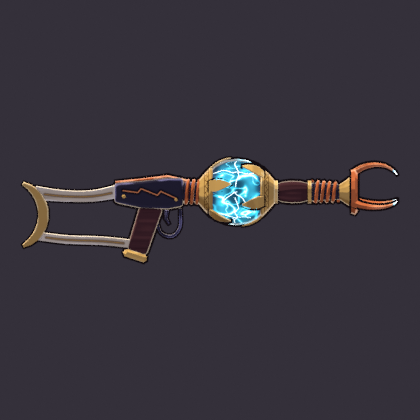
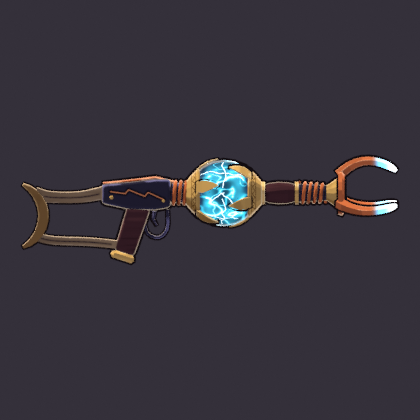
Fix the Thundercoil Launcher's stock value and muzzle read at 1x
The art review (7/10) found two must-fix items at game size.

The pale bone open-frame stock was the largest light shape and pulled
the eye to the back of the weapon. The bone is now smoked bone, one
value step darker (#D2C3A5 -> #9A7F5C), with a less pale edge
highlight. A painted gradient darkens it further toward the butt. The
crescent butt moves from bright brass to a new dark bronze zone, and
the brass pinstripes become dark scrimshaw lines. The stock is 4 cm
shorter. At 1x the pale streak behind the orb is gone, and the orb and
muzzle lead the read.

The three-prong muzzle was 1-2 px at 1x. The prongs are now longer
(tip at 0.80 m), about 60 % thicker and splayed wider, so the muzzle is
0.23 m across instead of 0.17 m. They end in blunt electrode tips
instead of needles, and the glow covers the front half of each prong
instead of the last 2 cm. At 1x the fork reads as a claw with three
white-hot points.

The triangle count is unchanged at 3,856 and the length stays at
1.15 m. The model is re-exported and passes validation, in Blender and
standalone. The review renders are redone, with a before/after sheet in
reports/. README and WEAPONS.md are updated. The status stays
ai_final_pending_user_approval.

Changed region(s): [[0.031, 0.3714, 0.9595, 0.65]]

diff --git a/art/weapons/thundercoil_launcher/source/thundercoil_launcher_build.py b/art/weapons/thundercoil_launcher/source/thundercoil_launcher_build.py
@@ -14,15 +14,20 @@ Design (docs/art/WEAPONS.md section 5: family HEAVY/SPLASH, secondary tag storm 
   * the brief asks for SLENDER and ELEGANT, so the LUMP verb is carried by ONE mass only: a storm-glass
     orb (0.20 m across; with its cups 0.25 m, a fifth of the length) sitting in the breech between the
     hands, set in two small brass cups whose rims open into five calyx leaves each. Everything else is
-    thin: a bone swan-neck skeleton stock with a brass crescent butt (Selene = the moon), a slim
-    dark-iron receiver with a copper lightning inlay, a copper coil pack on the neck, a wooden forestock
-    sleeve, a tapering copper induction coil, and a round emitter muzzle (a copper halo ring + three
-    forward-swept conductor tines): the wide round muzzle of the splash family, forked like a conductor;
-  * value rhythm (checked at 1x in the 55 deg camera): pale bone stock -> dark iron receiver / dark wood
-    grip -> the glowing orb in bright brass -> dark sleeve -> copper coil -> copper halo, white-hot tine
-    tips and a glowing bore where the orbs leave;
+    thin: a smoked-bone swan-neck skeleton stock with a dark bronze crescent butt (Selene = the moon), a
+    slim dark-iron receiver with a copper lightning inlay, a copper coil pack on the neck, a wooden
+    forestock sleeve, a tapering copper induction coil, and a round emitter muzzle (a copper halo ring +
+    three thick forward-swept conductor prongs with blunt glowing electrode tips): the wide round muzzle
+    of the splash family, forked like a conductor;
+  * value rhythm (checked at 1x in the 55 deg camera): mid smoked-bone stock falling off to a dark bronze
+    butt -> dark iron receiver / dark wood grip -> the glowing orb in bright brass (the lead) -> dark
+    sleeve -> copper coil -> copper halo, white-hot prong tips and a glowing bore where the orbs leave;
   * Storm #3FD8FF lives in the EMISSIVE only: the orb's plasma wisps and crackle veins, the bore, the
-    tine tips (about 16 % of the surface). Base colour under glows is pale steel-white, never cyan;
+    front half of each prong (about 18 % of the surface). Base colour under glows is pale steel-white,
+    never cyan;
+  * rev 2 (art review 7/10): the pale bone stock was the largest light shape and pulled the eye to the
+    back at 1x -> darkened one value step with a fall-off toward the butt, bronze crescent, 4 cm shorter;
+    the needle tines were 1-2 px at 1x -> longer, ~60 % thicker, wider, blunt glowing tips (same tris);
   * palette: the warm metals of the player's arsenal (copper, bone-brass, dark iron, dark wood, bone) +
     a dark slate storm-glass.
 
@@ -63,14 +68,21 @@ SLEEVE = (0.392, 0.490)           # wooden forestock sleeve (left hand)
 COIL = (0.502, 0.582)             # barrel induction coil (tapering)
 HALO_Y, HALO_R = 0.630, 0.060     # copper halo ring at the muzzle
 MUZZLE_Y = 0.634                  # bore exit (the muzzle socket)
-TINE_TIP_Y = 0.762
+TINE_TIP_Y = 0.800                # rev 2: 0.762 -> 0.800, the prongs are longer, thicker and splay wider
+TINE_GLOW_Y = 0.712               # the tines glow from here to the tip (rev 2: was the last ~2 cm only)
+STOCK_CC_Y = -0.388               # crescent-butt arc centre (rev 2: -0.426 -> -0.388, a shorter stock)
 GRIP_L = (0.0, 0.441, AX - 0.048)  # palm centre of the left hand under the sleeve
 CORE = (0.0, CH_Y, AX)            # the orb's plasma core (glow_core)
 
-ZONES = ["iron", "brass", "copper", "coil", "tine", "wood", "bone", "glass", "glow_bore"]
+ZONES = ["iron", "brass", "bronze", "copper", "coil", "tine", "wood", "bone", "glass", "glow_bore"]
+# rev 2 (art review): the bone stock was the largest light shape and pulled the eye to the back at 1x.
+# It is now smoked bone one value step darker (#D2C3A5 -> #9A7F5C) that also falls off toward the butt,
+# and the crescent is dark bronze instead of bright brass: the orb and the muzzle lead the read.
+BONE = "#9A7F5C"
 PALETTE = [  # (name, hex) for the review sheet
-    ("bone", "#D2C3A5"), ("wood", "#45282A"), ("iron", "#2D2A38"), ("brass", "#C79E55"), ("copper", "#C0673A"),
-    ("storm glass", "#18202E"), ("glow rim", "#0E4E7E"), ("storm", "#3FD8FF"), ("core", "#F2FFFF"),
+    ("smoked bone", BONE), ("wood", "#45282A"), ("iron", "#2D2A38"), ("brass", "#C79E55"), ("bronze", "#8A6638"),
+    ("copper", "#C0673A"), ("storm glass", "#18202E"), ("glow rim", "#0E4E7E"), ("storm", "#3FD8FF"),
+    ("core", "#F2FFFF"),
 ]
 
 # glass colours (sRGB)
@@ -148,7 +160,7 @@ def petal(ang, side):
 def stock_curves():
     """Centre-lines of the upper and lower stock struts and the crescent arc (shared by the mesh and the
     pinstripe decals)."""
-    cc = Vector((0.0, -0.426, 0.030))         # crescent arc centre (y, z); the horns point back
+    cc = Vector((0.0, STOCK_CC_Y, 0.030))     # crescent arc centre (y, z); the horns point back
     cr = 0.105
 
     def arc(th):
@@ -199,7 +211,7 @@ def build_mesh(col):
     for i in range(n):
         t = abs(i / (n - 1) * 2 - 1)            # 1 at the horns, 0 in the middle
         sc.append((0.046 - 0.012 * t, 0.032 - 0.024 * t * t))
-    a.add(M.tube(cres, 1.0, profile=rect, up=(1, 0, 0), scale_xy=sc), "brass", name="crescent")
+    a.add(M.tube(cres, 1.0, profile=rect, up=(1, 0, 0), scale_xy=sc), "bronze", name="crescent")
 
     # -- trigger guard (iron strap) and trigger
     guard = M.catmull([(0, 0.022, AX - 0.062), (0, 0.036, AX - 0.122), (0, 0.072, AX - 0.136),
@@ -247,11 +259,18 @@ def build_mesh(col):
     a.add(lathe_y(bore, 16), "glow_bore", name="bore", shading="smooth")
     ring_pts = [radial(360.0 * i / 16, HALO_R, HALO_Y) for i in range(16)]
     a.add(M.tube(ring_pts, 0.0105, sides=5, closed=True, up=(0, 1, 0)), "copper", name="halo", shading="smooth")
+    # rev 2 (art review: the needle tines were 1-2 px at 1x): the prongs are longer (tip 0.762 -> 0.800),
+    # about 60 % thicker (base radius 0.0115 -> 0.0185), splay wider (0.083 -> 0.097 from the axis, the
+    # muzzle is now 0.23 m across) and end in a blunt electrode tip (radius 0.006) instead of a needle,
+    # so each glowing tip is a dot at game size. Same ring count, so the same triangle count.
+    radii = [0.0185, 0.0172, 0.0160, 0.0150, 0.0142, 0.0136, 0.0132, 0.0130, 0.0126, 0.0108, 0.0060]
     for ang in (90.0, 210.0, 330.0):
-        ctrl = [radial(ang, r, y) for r, y in ((HALO_R - 0.004, HALO_Y - 0.004), (0.074, HALO_Y + 0.024),
-                                                (0.083, HALO_Y + 0.059), (0.080, HALO_Y + 0.094),
-                                                (0.066, HALO_Y + 0.120), (0.052, TINE_TIP_Y))]
-        a.add(M.horn(M.catmull(ctrl, 2), 0.0115, 0.0012, sides=5), "tine", name="tine", shading="smooth")
+        ctrl = [radial(ang, r, y) for r, y in ((HALO_R - 0.006, HALO_Y - 0.006), (0.081, HALO_Y + 0.026),
+                                                (0.097, HALO_Y + 0.066), (0.096, HALO_Y + 0.106),
+                                                (0.084, HALO_Y + 0.142), (0.068, TINE_TIP_Y))]
+        pts = M.catmull(ctrl, 2)
+        assert len(pts) == len(radii)
+        a.add(M.tube(pts, radii, sides=5, cap=True), "tine", name="tine", shading="smooth")
 
     obj = a.to_object(col)
     C.log("mesh: %d parts, %d tris" % (len(a.parts), sum(len(p.vertices) - 2 for p in obj.data.polygons)))
@@ -270,13 +289,20 @@ RECIPES = {
                      edge_width=0.0035, cavity=0.6, ao=0.55),
     "coil": P.zone(base="#BD6536", shadow="#4E1A0E", light="#FFB885", planes=0.12, parts=0.0, edge=0.35,
                    edge_width=0.0025, cavity=0.3, ao=0.85, ao_range=(0.2, 0.55), brush=0.04),
+    # rev 2: the glow runs over the front half of each prong (was the last ~2 cm), storm blue -> Storm ->
+    # white-hot at the blunt tip, so the three tips read as bright dots at 1x
     "tine": P.zone(base="#C0673A", shadow="#5A2214", light="#FFBE8C", planes=0.1, edge=0.6, edge_width=0.003,
                    cavity=0.4, ao=0.4,
                    emit={"core": STORM_DEEP, "hot": STORM, "color": STORM_CORE, "mode": "plane",
-                         "axis": (0, 1, 0), "range": (0.735, TINE_TIP_Y), "fade": (0.3, 0.85), "base_mix": 0.75}),
-    "bone": P.zone(base="#D2C3A5", shadow="#76624E", light="#FBF3E2", planes=0.06, parts=0.04, edge=0.6,
-                   edge_width=0.0045, cavity=0.75, ao=0.6, stroke=(0, 1, 0), stroke_amount=0.28,
-                   stroke_freq=(120.0, 3.0), brush=0.06, brush_freq=9.0),
+                         "axis": (0, 1, 0), "range": (TINE_GLOW_Y, TINE_TIP_Y), "fade": (0.0, 0.3),
+                         "base_mix": 0.75}),
+    "bone": P.zone(base=BONE, shadow="#4A3826", light="#CDB690", planes=0.06, parts=0.04, edge=0.5,
+                   edge_width=0.004, cavity=0.75, ao=0.6, stroke=(0, 1, 0), stroke_amount=0.22,
+                   stroke_freq=(120.0, 3.0), brush=0.06, brush_freq=9.0,
+                   gradient={"axis": (0, 1, 0), "range": (-0.12, -0.33), "color": "shadow", "amount": 0.32}),
+    "bronze": P.zone(base="#8A6638", shadow="#3E2810", light="#D0AA68", planes=0.08, parts=0.0, edge=0.8,
+                     edge_width=0.004, cavity=0.7, ao=0.6,
+                     spots={"color": "#5A3E1E", "amount": 0.25, "freq": 16.0, "threshold": (0.62, 0.74)}),
     "wood": P.zone(base="#45282A", shadow="#1A0C0E", light="#7E4C45", planes=0.05, parts=0.04, edge=0.55,
                    edge_width=0.0045, cavity=0.7, ao=0.6, stroke=(0, 1, 0), stroke_amount=0.3,
                    stroke_freq=(80.0, 5.0)),
@@ -337,14 +363,15 @@ def decals():
         fr = Matrix(((u.x, v.x, z.x, 0), (u.y, v.y, z.y, 0.008), (u.z, v.z, z.z, AX - 0.004), (0, 0, 0, 1)))
         out.append(P.decal_lines(bolt_lines(sx), fr, 0.0055, zones=["iron"], color="#E28A52", rim="#0D0A12",
                                  rim_width=0.010, depth=(0.0, 0.06)))
-        # brass pinstripe inlaid along both bone struts (u = sx * y so the frame's +Z points out of this side)
+        # scrimshaw line inked along both bone struts (u = sx * y so the frame's +Z points out of this side);
+        # rev 2: dark ink instead of the brass pinstripe, which vanished into the darker smoked bone
         top, low, _ = stock_curves()
         fr0 = Matrix(((u.x, v.x, z.x, 0), (u.y, v.y, z.y, 0), (u.z, v.z, z.z, 0), (0, 0, 0, 1)))
         stripes = []
-        for curve, y_lo, y_hi in ((top, -0.325, -0.11), (low, -0.325, -0.075)):
+        for curve, y_lo, y_hi in ((top, -0.29, -0.11), (low, -0.29, -0.075)):
             stripes.append([(sx * p.y, p.z) for p in curve if y_lo <= p.y <= y_hi])
-        out.append(P.decal_lines(stripes, fr0, 0.0032, zones=["bone"], color="#B98A3E", rim="#5E4630",
-                                 rim_width=0.0065, depth=(0.0, 0.06)))
+        out.append(P.decal_lines(stripes, fr0, 0.0030, zones=["bone"], color="#2E2026", rim="#6A563F",
+                                 rim_width=0.0062, depth=(0.0, 0.06)))
     # an engraved frieze around each brass cup: two rings and a lightning zig-zag between them
     for side in (-1, 1):
         dy = side * 0.092

diff --git a/art/weapons/thundercoil_launcher/README.md b/art/weapons/thundercoil_launcher/README.md
@@ -38,7 +38,8 @@ The weapon should be elegant, not bulky.
   a top-heavy lump at about 4:1. The brief asks for slender and elegant. So only the chamber is
   massive: a **storm-glass orb**, 0.20 m across, sits in the breech between the hands. Everything else
   is thin. The ratio is about 5.5:1, and the orb is the single biggest mass and the brightest value.
-  At 1x in the game camera, the weapon reads as a pale line with a glowing orb and a forked copper tip.
+  At 1x in the game camera, the weapon reads as a mid-value line with a glowing orb and a forked copper
+  tip with three white-hot points.
 * **The orb** sits in two small brass cups whose rims open into five calyx leaves each, interleaved.
   An engraved lightning frieze runs around each cup. It is painted as a plasma globe: dark slate
   glass, a low storm-blue glow, thin bright plasma wisps and white-cyan crackle veins. The whole ball
@@ -48,23 +49,27 @@ The weapon should be elegant, not bulky.
   A tapering copper induction coil wraps the barrel in front of the wooden forestock sleeve. A copper
   conductor rail runs along the receiver top into the neck coil.
 * **Wide round muzzle, forked like a conductor:** a brass bell holds a glowing bore. Around it are a
-  copper halo ring and three forward-swept conductor tines with white-hot tips. From the top it reads
-  as a trident; from the side, as a claw. It is 0.17 m across, more than twice the barrel.
-* **Stock:** a bone swan-neck skeleton stock with brass pinstripe inlays ends in a **brass crescent
-  butt** whose horns point back (Selene is the moon). The first version had a dark wood stock. It
-  vanished into the dark arena floor at 1x, so the pale bone now carries the weapon's length in the
-  game camera.
-* **Value rhythm:** pale bone stock → dark iron receiver and dark wood grip → the glowing orb in
-  bright brass → dark sleeve → copper coil → copper halo, glowing bore and tine tips, where the orbs
-  leave.
-* **Palette:** the warm metals of the player's arsenal plus storm glass. Bone `#D2C3A5`, dark wood
-  `#45282A`, iron `#2D2A38` (with a copper lightning-bolt inlay on both receiver sides), brass
-  `#C79E55`, copper `#C0673A`, storm glass `#18202E`. Glows run `#0E4E7E` → Storm `#3FD8FF` →
-  `#F2FFFF`. The base colour under glows is pale steel-white, never cyan. About 16 % of the surface
-  emits: the orb, the bore and the tine tips.
+  copper halo ring and three thick, forward-swept conductor prongs. Each ends in a blunt electrode tip,
+  and the front half of each prong glows from storm blue to white-hot. From the top it reads as a
+  trident; from the side, as a claw. It is 0.23 m across, about three times the barrel.
+* **Stock:** a smoked-bone swan-neck skeleton stock with dark scrimshaw lines ends in a **dark bronze
+  crescent butt** whose horns point back (Selene is the moon). The first version had a dark wood stock.
+  It vanished into the dark arena floor at 1x. The pale bone that replaced it was then the largest light
+  shape and pulled the eye to the back. The stock is now a mid value between the two: one step darker
+  than the old bone, falling off toward the butt. It still carries the weapon's length on a dark floor,
+  and the orb and muzzle lead the read.
+* **Value rhythm:** mid smoked-bone stock falling off to a dark bronze butt → dark iron receiver and
+  dark wood grip → the glowing orb in bright brass (the lead) → dark sleeve → copper coil → copper
+  halo, glowing bore and white-hot prong tips, where the orbs leave.
+* **Palette:** the warm metals of the player's arsenal plus storm glass. Smoked bone `#9A7F5C`, dark
+  wood `#45282A`, iron `#2D2A38` (with a copper lightning-bolt inlay on both receiver sides), brass
+  `#C79E55`, bronze `#8A6638`, copper `#C0673A`, storm glass `#18202E`. Glows run `#0E4E7E` → Storm
+  `#3FD8FF` → `#F2FFFF`. The base colour under glows is pale steel-white, never cyan. About 18 % of the
+  surface emits: the orb, the bore and the front half of each prong.
 * **Painting:** `gfa_paint` does the zones, with flat planes, cavity darks, brushy edge highlights, bone
-  grain and brass oxidation spots. The build script runs the painter's steps itself, with one extra
-  pass for the orb's plasma before the decals. The shared toolkit was not changed.
+  grain with a value fall-off toward the butt, and oxidation spots on the brass and bronze. The build
+  script runs the painter's steps itself, with one extra pass for the orb's plasma before the decals.
+  The shared toolkit was not changed.
 
 ## Iterations
 
@@ -76,16 +81,31 @@ The weapon should be elegant, not bulky.
 3. Calyx leaves and an engraved frieze replaced the claws, and the glow got brighter. A cloud-gated
    glow made "continents" on the orb, so plasma wisps (ridged noise) replaced it. A bone stock replaced
    the dark wood so the length reads at 1x.
+4. **Rev 2, after the art review (7/10).** It had two must-fix items.
+   * The pale bone stock was the largest light shape and pulled the eye to the back at 1x. The bone
+     is now one value step darker (`#D2C3A5` → `#9A7F5C`, with a less pale edge highlight). A painted
+     gradient darkens it further toward the butt, and the crescent is dark bronze instead of bright
+     brass. The brass pinstripes became dark scrimshaw lines, because brass vanished on the darker
+     bone. The stock is also 4 cm shorter.
+   * The three-prong muzzle was 1-2 px at 1x and did not read. The prongs are now longer (tip at
+     0.80 m instead of 0.76 m) and about 60 % thicker (base radius 18.5 mm instead of 11.5 mm). They
+     splay wider, so the muzzle is 0.23 m across instead of 0.17 m. They end in blunt electrode tips
+     instead of needles. The glow covers the front half of each prong instead of the last 2 cm.
+     At 1x the fork is a clear claw with three white-hot points. The ring count is unchanged, so the
+     triangle count is too.
+
+   A first pass used `#A08A6C` for the bone. At 1x its top strut still showed as a tan line behind
+   the orb, so the bone went one notch darker and warmer.
 
 ## Metrics (last build)
 
 | | |
 |---|---|
-| Triangles | 3,856 (two-handed budget 2,000-4,000); 38 parts in 9 paint zones |
-| Textures | base colour 1024², emissive 1024² (PNG, embedded); about 780 px/m (median), atlas coverage about 38 % |
+| Triangles | 3,856 (two-handed budget 2,000-4,000); 38 parts in 10 paint zones |
+| Textures | base colour 1024², emissive 1024² (PNG, embedded); about 730 px/m (median), atlas coverage about 35 % |
 | Material | one material, `M_thundercoil_launcher`: roughness 0.85, metallic 0, single-sided |
-| Length | 1.148 m, from the crescent horns to the tine tips (launcher class 0.9-1.15 m); orb 0.20 m, muzzle 0.17 m across |
-| GLB | about 1.15 MB, no compression extensions (bevy_gltf 0.20 safe) |
+| Length | 1.150 m, from the crescent horns to the prong tips (launcher class 0.9-1.15 m); orb 0.20 m, muzzle 0.23 m across |
+| GLB | about 1.16 MB, no compression extensions (bevy_gltf 0.20 safe) |
 | Sockets (glTF) | `grip_R` (0, 0, 0), `grip_L` (0, 0.052, -0.441) under the sleeve, `muzzle` (0, 0.10, -0.634) at the bore, `glow_core` (0, 0.10, -0.27) at the orb's centre |
 
 **Grip frame:** the origin is the right palm centre on the pistol grip. Blender +Y is the barrel
@@ -100,13 +120,14 @@ The weapon should be elegant, not bulky.
 | `source/thundercoil_launcher.blend` | yes (LFS); textures referenced relatively |
 | `textures/thundercoil_launcher_basecolor.png`, `_emissive.png` | yes (LFS) |
 | `reports/thundercoil_launcher_review.png`, `_34.png`, `_side.png`, `_ingame_close.png`, `_ingame_close_side.png`, `_ingame_1x.png`, `_ingame_1x_sil.png`, `build_report.json` | yes |
+| `reports/thundercoil_launcher_rev2_before_after.png` (the rev-2 art-review fixes, before vs after) | yes |
 | `work/` (every review render, sheet layout) | no (`.gitignore`) |
 
 ## Open points for the user's review
 
-* **Stock colour.** Pale bone was chosen for the 1x read and the moon motif. If you prefer the darker
-  arsenal look, change the `bone` recipe in the script to a wood colour. The length then reads less
-  well on dark floors.
+* **Stock colour.** Smoked bone (`BONE` in the script) is the middle ground between the old pale bone,
+  which pulled the eye to the back, and dark wood, which vanished on dark floors. Moving it one step
+  either way only means changing that constant.
 * **Orb brightness.** The plasma glow is authored at emissive strength 1.0, and the engine scales it.
   If the orb competes with the projectiles, reduce `I` in `paint_glass` (the 0.34 floor) first.
 * **The hold pose.** In the review, the mannequin holds the weapon at hip height. The real hold comes

diff --git a/docs/art/WEAPONS.md b/docs/art/WEAPONS.md
@@ -118,7 +118,7 @@ Every chassis in `content/sheets/chassis.csv` today:
 | Chassis | Tier | Family | Brief |
 |---|---|---|---|
 | **colossus_cannon** | two_handed | heavy | **built** (`art/weapons/colossus_cannon/`): **arm-mounted**, after Valdris's concept. A plated sleeve over the right forearm, with the fist on an inner handle (`grip_R`); an octagonal shell-drum breech with top clamps and an under-bracket; a stepped muzzle collar whose shell-burst ring is glowing slots and ports around an ember bore. `grip_L` is a side handle on the drum's left. The hold needs the forearm along -Y inside the sleeve |
-| **thundercoil_launcher** | two_handed | heavy (storm) | **built** (`art/weapons/thundercoil_launcher/`): slender and elegant per Selene's brief, so the lump is ONE storm-glass orb (0.20 m) in the breech between the hands: a plasma globe with crackle veins, set in brass calyx cups. A copper coil pack on the neck and a tapering induction coil on the barrel; a round emitter muzzle (copper halo, three conductor tines, glowing bore); a bone swan-neck skeleton stock with a crescent-moon butt. Storm glow only in the emissive (about 16 % of the surface). `glow_core` = the orb centre |
+| **thundercoil_launcher** | two_handed | heavy (storm) | **built** (`art/weapons/thundercoil_launcher/`): slender and elegant per Selene's brief, so the lump is ONE storm-glass orb (0.20 m) in the breech between the hands: a plasma globe with crackle veins, set in brass calyx cups. A copper coil pack on the neck and a tapering induction coil on the barrel; a round emitter muzzle (copper halo, three thick conductor prongs with glowing electrode tips, glowing bore; 0.23 m across); a smoked-bone swan-neck skeleton stock (a mid value, so the orb and muzzle lead at 1x) with a bronze crescent-moon butt. Storm glow only in the emissive (about 18 % of the surface). `glow_core` = the orb centre |
 | **serpent_smg** | one_handed | rapid | **built** (`art/weapons/serpent_smg/`): one serpent is the gun. A bone-rattle tail on the receiver; four tight diamond-back coils around the bronze receiver (the stripe rhythm); a lean neck along a dark barrel with four glowing needle quills; the viper head is the muzzle (jaws open, bone fangs, slit-pupil eyes, a glowing mouth spitting the needle barrel). A bronze drum with engraved scales and a coiled-tail spiral on its faces sits in front of the grip. `glow_core` = the throat |
 | **godsbane_rifle** | two_handed | precise (pierce) | **built** (`art/weapons/godsbane_rifle/`): the NEEDLE at 1.60 m, the longest line so far. A god's femur for a stock: the butt is the bone's double knuckle, with a carved gold god-eye with a glowing slit iris, and hairline cracks. A dark engraved iron receiver sits under a faceted Kinetic quartz scope in gold claw rings. An octagonal barrel is framed by two gilded side rails and a gilded top rib with a sight blade, with faint runes between the bands. A faceted gold crown with glowing channels and a glowing bore pupil, and a bone fang under it as the one sharp point. `glow_core` = the crystal, `eject` = the right-side port |
 | **wraith_bow** | two_handed | charge (pierce, void) | **built** (`art/weapons/wraith_bow/`): a winged recurve of pale wraith-wood and dark iron at half draw, canted 72° about the aim so that the feathered limbs face the 55° camera; a violet spectral string, a nocked hex-bolt with a white-hot head, a void eye on the riser. `grip_R` = the right palm on the string's nocking point (the drawing hand), `grip_L` = the left palm on the riser grip, `muzzle` = the arrow rest, `glow_core` = the bolt head |
